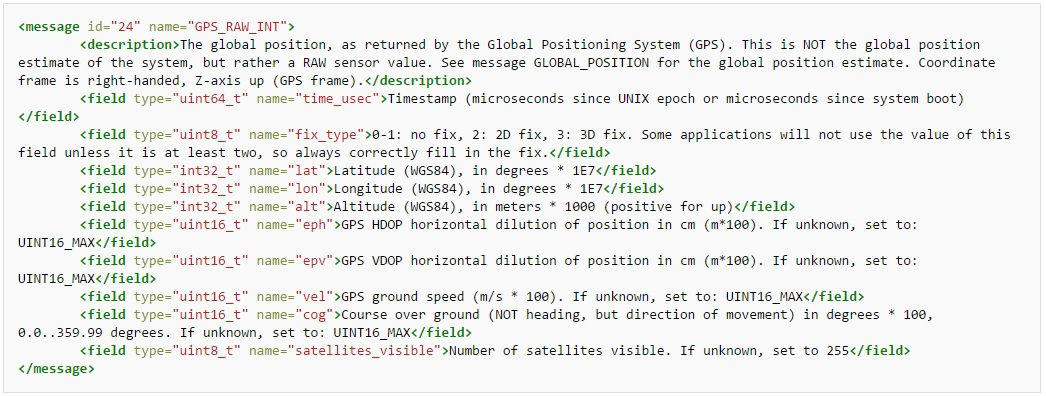
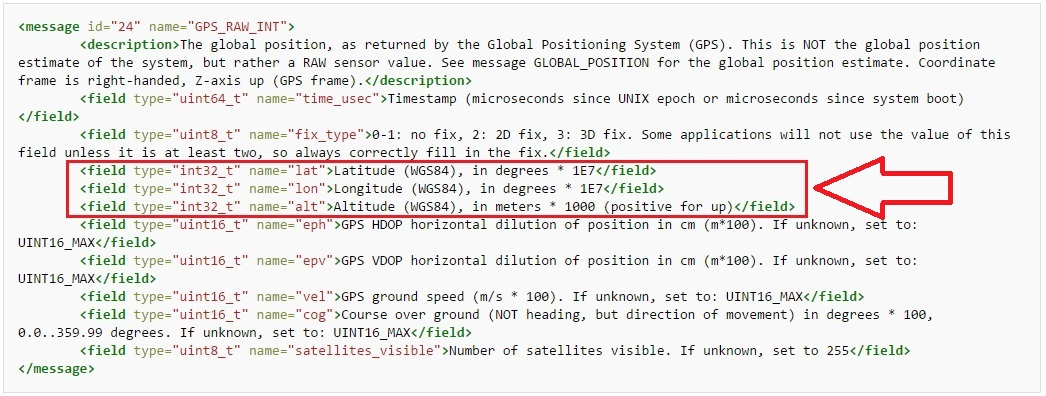
map & mav

Changed region(s): [[0.0612, 0.3939, 0.9178, 0.5758]]

diff --git a/src/matlab/Map/uas_los.m b/src/matlab/Map/uas_los.m
@@ -1,0 +1,212 @@
+function varargout = uas_los(Z, R, gs_lat, gs_lon, ua_lat, ua_lon, ...
+    gs_alt, ua_alt, gs_altopt, ua_altopt, actualradius, apparentradius)
+%
+%   In order to work, this function needs to be in the Mapping Toolbox:
+%   ..\matlab\toolbox\map\map
+%
+%   # LOS visibility between GS and UA in terrain with elevation #
+%               GS  - Ground Station
+%               UA  - Unmanned Aicraft
+%               LOS - Line of Sight  
+%
+%   - Computes the mutual visibility between two points on a displayed
+%   digital elevation map   
+%   - The two points are selected by clicking on the map 
+%   - The result is displayed in a new figure  
+%   - Markers indicate visible and obscured points along the profile
+%   - The profile is shown in a Cartesian coordinate system with the origin
+%   at the GS location
+%   - The displayed z coordinate accounts for the elevation of the terrain 
+%   and the curvature of the body (Earth).
+%
+%   VIS = UAS_LOS(Z, R, GS_LAT, GS_LON, UA_LAT, UA_LON, GS_ALT, UA_ALT, ...
+%       GS_ALT_OPT, UA_ALT_OPT, ACTUALRADIUS, EFFECTIVERADIUS) 
+%
+%   Z - Data grid containing elevations in units of meters
+%
+%   R - Geographic raster reference object, its RasterSize property
+%   must be consistent with size(Z)
+%
+%   If R is a referencing matrix, it must be 3-by-2 and transform raster
+%   row and column indices to/from geographic coordinates according to:
+% 
+%                     [lon lat] = [row col 1] * R.
+%
+%   If R is a referencing matrix, it must define a (non-rotational,
+%   non-skewed) relationship in which each column of the data grid falls
+%   along a meridian and each row falls along a parallel.
+%
+%   GS_LAT - Latitude at which the GS is located (fixed)
+%   GS_LON - Longitude at which the GS is located (fixed)
+%   UA_LAT - Latitude at which the UA is located at that moment
+%   UA_LON - Longitude at which the UA is located at that moment
+%   GS_ALT - Altitude at which the GS is placed
+%   UA_ALT - Altitude at which the UA is flying above the surface
+%   GS_ALT_OPT - Altitude option for GS (def 'AGL')
+%   UA_ALT_OPT - Altitude option for UA (def 'AGL')
+%   ACTUALRADIUS - Earth Radius in meters
+%   EFFECTIVERADIUS - 4/3*ACTUALRADIUS
+%
+%   ALT_OPT is either:
+%   - a relative altitude (ALT_OPT equals 'AGL', the default) interpreted 
+%   as the altitude (in meters) above terrain ("Above Ground Level")
+%   - an absolute altitude (ALT_OPT equals 'MSL') is interpreted as 
+%   altitude above zero ("Mean Sea Level")
+%
+%   ACTUALRADIUS & EFFECTIVERADIUS
+%   Assumes a larger radius for propagation of the LOS. This can account 
+%   for the curvature of the signal path due to refraction in the atmosphere.  
+%   For example, radio propagation in the atmosphere is commonly treated as
+%   straight line propagation on a sphere with 4/3rds the radius of the 
+%   earth. In that case the last two arguments would be:
+%   >>>R_e (the radius of the earth) and 4/3*R_e
+%   
+%   For flat earth visibility calculations use Inf as the effective radius
+%   The altitudes, elevations and the radii should be in the same units!!! 
+%
+%   See also LOS2, VIEWSHED
+
+% CA832 AAU Reworked
+% Copyright 1996-2014 The MathWorks, Inc.
+% Original version (los2) written by Walter Stumpf
+
+if nargin < 2 || (isempty(Z) && isempty(R))
+   [Z, R] = getrmm;
+end
+
+if nargin < 4 || (isempty(gs_lat) && isempty(gs_lon))
+   disp('Click on the map for point 1')
+   [gs_lat,gs_lon] = inputm(1);
+end
+
+if nargin < 6 || (isempty(ua_lat) && isempty(ua_lon))
+   disp('Click on the map for point 2')
+   [ua_lat,ua_lon] = inputm(1);
+end
+
+if nargin < 7; gs_alt = 100*eps; end   % observer on the surface
+if nargin < 8; ua_alt = 0; end         % look at terrain, not above it
+if nargin < 9; gs_altopt = 'AGL'; end  % observer altitude above terrain
+if nargin < 10; ua_altopt = 'AGL'; end % target above ground level
+if nargin < 11; actualradius = earthRadius; end
+if nargin < 12; apparentradius = 4/3*actualradius; end 
+
+checklatlon(gs_lat, gs_lon, mfilename, 'GS_LAT', 'GS_LON', 3, 4)
+checklatlon(ua_lat, ua_lon, mfilename, 'UA_LAT', 'UA_LON', 5, 6)
+
+if isscalar(gs_alt)
+    gs_alt = repmat(gs_alt,size(gs_lat));
+end
+
+if isscalar(ua_alt)
+    ua_alt = repmat(ua_alt,size(gs_lat));
+end
+
+% If R is already spatial referencing object, validate it. Otherwise
+% convert the input referencing vector or matrix. And construct a
+% non-extrapolating default-grid griddedInterpolant for Z.
+R = internal.map.convertToGeoRasterRef( ...
+    R, size(Z), 'degrees', mfilename, 'R', 2);
+F = griddedInterpolant(Z);
+F.ExtrapolationMethod = 'none';
+
+gs_altopt = validatestring(gs_altopt, {'AGL','MSL'}, 'LOS2', 'ALT1OPT', 9);
+observerAltitudeIsAGL = strcmp(gs_altopt,'AGL');
+
+ua_altopt = validatestring(ua_altopt, {'AGL','MSL'}, 'LOS2', 'ALT2OPT', 10);
+targetAltitudeIsAGL = strcmp(ua_altopt, 'AGL');
+
+% loop over pairs of observer and target locations
+makeplot = (nargout == 0);
+if numel(gs_lat) == 1
+    % Single pair of points:
+    %    Output 1 is a logical scalar
+    %    Output 2 is a logical array
+    %    Outputs 3-6 are numerical arrays
+    
+    [visprofile, dist, h, lattrk, lontrk, x1, z1, x2, z2] = calculateLOS(F, R, ...
+        gs_lat, gs_lon, ua_lat, ua_lon, gs_alt, ua_alt, observerAltitudeIsAGL, ...
+        targetAltitudeIsAGL, actualradius, apparentradius);
+    
+    vis = visprofile(end);
+    
+    % Display calculation if no output arguments in main function
+    if makeplot
+        plotProfile(x1, z1, x2, z2, visprofile)
+    end
+else
+    % Multiple pairs of points:
+    %   Output 1 is a logical array
+    %   Outputs 2-6 are cell arrays that contain
+    %      logical or numerical arrays
+    vis = false(1, numel(gs_lat));
+    visprofile = cell(1, numel(gs_lat));
+    h      = cell(1, numel(gs_lat));
+    dist   = cell(1, numel(gs_lat));
+    lattrk = cell(1, numel(gs_lat));
+    lontrk = cell(1, numel(gs_lat));
+    
+    for i = 1:length(gs_lat)
+        [visprofile{i}, dist{i}, h{i}, lattrk{i}, lontrk{i}, x1, z1, x2, z2] ...
+            = calculateLOS(F, R, gs_lat(i), gs_lon(i), ua_lat(i), ua_lon(i), ...
+                gs_alt(i), ua_alt(i), observerAltitudeIsAGL, ...
+                targetAltitudeIsAGL, actualradius, apparentradius);
+        
+        vis(i) = visprofile{i}(end);
+        
+        % Display calculation if no output arguments in main function
+        if makeplot
+            plotProfile(x1, z1, x2, z2, visprofile{i})
+        end
+    end
+end
+
+% Return only the arguments that are requested, if any.
+outputArguments = {vis,visprofile,dist,h,lattrk,lontrk};
+varargout = outputArguments(1:nargout);   
+
+%-----------------------------------------------------------------------
+
+function plotProfile(x, z, x2, z2, vis)
+% Plot the terrain profile plus observer position, visible and obscured
+% points, and line of sight to last point in profile, in a new figure with
+% the tag 'los2'.
+
+vis = reshape(vis, size(x));
+
+figure('Tag','los2','NextPlot','add')
+ax = axes('NextPlot','add');
+ax.XTick = 0:10:x(end)
+ax.XMinorTick = 'on'
+ax.YDir = 'reverse'
+ax.YMinorTick = 'on'
+h(1) = plot(ax,x/1000,-z,'k');
+
+% Line from beginning to end
+% if vis(end)
+%     h(5) = plot(ax,[0;x2(end)],[0;z2(end)],'g');
+% else
+%     h(5) = plot(ax,[0;x2(end)],[0;z2(end)],'r');
+% end
+
+if any(vis)
+    h(2) = plot(ax,x2(vis)/1000,-z2(vis),'b+');
+    h(2).LineWidth = 2;
+end
+
+if any(~vis)
+    h(3) = plot(ax,x2(~vis)/1000,-z2(~vis),'ro');
+    h(3).LineWidth = 2;
+end
+
+h(4) = plot(ax,0,0,'x','color',[1 .5 .2]);
+h(4).LineWidth = 2.5;
+% axis(ax,'equal')
+
+labels = {'Terrain','Visible UA','Unseen UA','Ground Station','Line of Sight'};
+indx = ishghandle(h,'line');
+leg = legend(ax, h(indx), labels(indx));
+set(leg,'FontSize',16);
+xlabel(ax,'DISTANCE FROM GS [kilometers]')
+ylabel(ax,'DOWN AXIS FROM GS [meters]')
+grid minor;

diff --git a/doc/report/sections/sim/los_map.tex b/doc/report/sections/sim/los_map.tex
@@ -1,5 +1,5 @@
 \section{LOS Coverage Map}\label{sec:los_map}
-A point of interest regarding the project at hand is that Line-of-Sight between the GS and the UA should be fulfilled. As discussed in Chapter \ref{ch:frames} this model should take into account the followings:
+A point of interest regarding the project at hand is that Line-of-Sight between the Ground Station and the Unmanned Aircraft should be fulfilled. As discussed in Chapter \ref{ch:frames} this model should take into account the followings:
 
 \begin{itemize}
 	\item Terrain elevation
@@ -8,42 +8,57 @@ A point of interest regarding the project at hand is that Line-of-Sight between 
 \end{itemize}
 
 \subsection{Initial Step}
-In this sense, a MATLAB script has been addressed which at first imports a Web Map Service (WMS) in order to load various maps with their topographic data. As an example a map which captures the area of Central Europe has been taken along with its terrain elevation levels as seen in Figure \ref{fig:before_map}.
+In this sense, a MATLAB script has been addressed which at first imports a Web Map Service (WMS) in order to load various maps with their topographic data. As example, a map which captures the areas of Denmark and Sweden has been taken along with its terrain elevation as it can be seen in Figure \ref{fig:before_map}.
 
 \begin{figure}[H]
   \hfill
   \subfigure[Map Before Interaction]{
-  \includegraphics[scale=0.32]{figures/europe_map.png}
+  \includegraphics[scale=0.3]{figures/dk_map.png}
   \label{fig:before_map}}
   \hfill
   \subfigure[GS and UA Placement]{
-  \includegraphics[scale=0.32]{figures/gs_ua_map.png}
+  \includegraphics[scale=0.3]{figures/gs_ua_map.png}
   \label{fig:gs_uav_map}}
   \hfill
-  \caption{Topographic Map of Central Europe}\label{fig:eu_map}
+  \caption{Topographic Map of Northen Europe}\label{fig:eu_map}
 \end{figure}
 
 \subsection{LOS Distance}
-Given the map and its topographic data in Figure \ref{fig:before_map}, now it is possible to input the desired points for the GS (red) and the UA (blue) which gives as result in Figure \ref{fig:gs_uav_map}. The example takes into account the altitude of the GS (20m) and UA (100m) along with the terrain elevation. Thus, it can be observed in Figure \ref{fig:los_2p} that visibility is lost after 65 kilometers from the GS due to terrain elevation. On the other hand, in some parts of the distance it can be seen that the field of vision is regained, as a result of high terrain elevation around the 73th and 78th kilometer. Moreover, it can be seen that the curvature of the Earth comes into play as the further away the UA is from the GS.
+Given the map and its topographic data in Figure \ref{fig:before_map}, now it is possible to input the desired points for the GS (orange) and the UA (blue) which gives as result in Figure \ref{fig:gs_uav_map}. The example takes into account the altitude of the GS (20m) and UA (100m) along with the terrain elevation. 
+
+Figure \ref{fig:los_2p} shows the Local NED of the GS (orange cross) perspective which is fixed in zero. Furthermore, the blue crosses and red circles indicate if the UA is visible or not at a particular distance from the GS. Thus, it can be observed that visibility is lost after 50 kilometers from the ground station due to terrain elevation. However, the field of vision is regained between the 55th and 65th kilometer, but the curvature of the Earth comes into play and visibility is lost once again.
 
 \begin{figure}[H]
 	\centering
-	\includegraphics[scale=0.40]{figures/los_2p.png}
-	\caption{LOS distance seen from the Local NED of GS \\ X axis - Distance [km] \\ Y axis - Altitude [m]}
+	\includegraphics[scale=0.40]{figures/los_2points.png}
+	\caption{Line-of-Sight distance seen from the Local NED of the Ground Station}
    	\label{fig:los_2p}
 \end{figure}
 
-\subsection{Coverage Map}
-Moving further, for the same map (Figure \ref{fig:before_map}), a location of the GS can be chosen, such that it will result into a visibility area (inside the white zone) as seen in Figure \ref{fig:los_area}. This area is also referred as the LOS coverage map and it takes into account the previously mentioned parameters.
+\subsection{LOS Coverage Map}
+Moving further, for the same map (Figure \ref{fig:before_map}), a location of the GS can be chosen, such that it will result into a visibility area (inside the orange zone) as seen in Figure \ref{fig:los_area}. This area is also referred as the \emph{LOS Coverage Map} and it takes into account the previously mentioned parameters.
+
+\begin{figure}[H]
+  \hfill
+  \subfigure[LOS Coverage Map of UAS]{
+  \includegraphics[scale=0.31]{figures/los_area.png}
+  \label{fig:los_area}}
+  \hfill
+  \subfigure[Zoom of LOS Area]{
+  \includegraphics[scale=0.33]{figures/zoom_los_map.png}
+  \label{fig:zoom_map}}
+  \hfill
+  \caption{LOS Coverage Map}\label{fig:eu_map}
+\end{figure}
+
+It can be observed from Figure \ref{fig:los_area} that in some areas of the map there is no visibility, due to higher terrain elevation or the curvature of the Earth. Additionally, in Figure \ref{fig:los_odense} it can be seen that choosing a good position for the ground station can impact the coverage area, such that the working area of the UAS expands.  
 
 \begin{figure}[H]
 	\centering
-	\includegraphics[scale=0.5]{figures/cov_map1.png}
-	\caption{LOS Coverage Map from the GS}
-   	\label{fig:los_area}
+	\includegraphics[scale=0.70]{figures/los_odense.png}
+	\caption{Example of good GS positioning which impacts coverage area}
+   	\label{fig:los_odense}
 \end{figure}
-
-It can be observed from Figure \ref{fig:los_area} that in some areas of the map there is no visibility, due to higher terrain elevation. This can be overcome by increasing the GS and/or UA altitude, such that we achieve visibility.  
 
 \subsection{Working Principle}
 Taking into account that a MATLAB script has been achieved, a thourough working principle has to be addressed in the following steps:

diff --git a/src/matlab/Map/LOS_coverage_map.m b/src/matlab/Map/LOS_coverage_map.m
@@ -3,8 +3,8 @@ clear all; close all; clc;
 % Input parameters
 H_gs = input('Input ground station altitude: ');   % [m] GS altitude 
 H_ua = input('Input aircraft altitude: ');         % [m] UA altitude
-latlim = [45 55];                                  % Map latitude limits
-lonlim = [3 18];                                   % Map longitude limits
+latlim = [54 58];                                  % Map latitude limits
+lonlim = [8 16];                                   % Map longitude limits
 R_e = earthRadius('meters');                       % Earth radius
 
 %% 1. Import map as a Web Map Service (WMS)
@@ -23,10 +23,12 @@ figure
 worldmap(latlim, lonlim)
 geoshow(ZA, RA, 'DisplayType', 'texturemap')
 demcmap(double(ZA))
-title({'Central Europe - Topographic Map'});
-[lat lon] = inputm(2);                         % Input GS and UA locations
-plotm(lat(1),lon(1),'ro','LineWidth',3);textm(lat(1),lon(1),'GS');
-plotm(lat(2),lon(2),'bo','LineWidth',3);textm(lat(2),lon(2),'UA');
+title({'Denmark - Topographic Map'});
+[lat lon] = inputm(2);                         % INPUT GS & UA LOCATIONS
+plotm(lat(1),lon(1),'o','color',[1 .5 .2],'LineWidth',3);
+textm(lat(1),lon(1),'  GS','FontWeight','bold');
+plotm(lat(2),lon(2),'bo','LineWidth',3);
+textm(lat(2),lon(2),'  UA','FontWeight','bold');
 
 % Personalized LOS function (LOCAL NED GS FRAME):
 uas_los(Z, R, lat(1), lon(1), lat(2), lon(2), H_gs, H_ua, 'AGL', ...
@@ -37,20 +39,20 @@ uas_los(Z, R, lat(1), lon(1), lat(2), lon(2), H_gs, H_ua, 'AGL', ...
 %                                                            R_e, 4/3*R_e)
 
 % Theoretical LOS distance 
-E_gs = ltln2val(Z, R, lat(1), lon(1)) + H_gs; % [m] terrain + GS altitude
-E_ua = ltln2val(Z, R, lat(2), lon(2)) + H_ua; % [m] terrain + UA altitude
-D_los = 3.57*(sqrt(E_gs) + sqrt(E_ua))     % [km] LOS distance
+E_gs = ltln2val(Z, R, lat(1), lon(1)) + H_gs; % [m] TERRAIN + GS ALTITUDE
+E_ua = ltln2val(Z, R, lat(2), lon(2)) + H_ua; % [m] TERRAIN + UA ALTITUDE
+D_los = 3.57*(sqrt(E_gs) + sqrt(E_ua))     % [km] LOS DISTANCE
 
 %% 3. LOS Coverage Map
 figure
 worldmap(latlim, lonlim)
 geoshow(ZA, RA, 'DisplayType', 'texturemap')
 demcmap(double(ZA))   
-title('Central Europe - Topographic Map')
-[latGS lonGS] = inputm(1);                % Input GS location  
+title('Denmark - Topographic Map')
+[latGS lonGS] = inputm(1);                              % INPUT GS LOCATION  
 [vmap, vmapl] = viewshed(Z, R, latGS(1), lonGS(1), H_gs, H_ua, ...
     'AGL', 'AGL', R_e, 4/3*R_e);
-plotm(latGS,lonGS,'ro','LineWidth',3);    % GS point on map
-textm(latGS,lonGS,'GS');
-contourm(vmap,RA,'LineColor','w');        % LOS area from the GS
+plotm(latGS,lonGS,'o','color',[1 .5 .2],'LineWidth',3); % GS POINT ON MAP
+textm(latGS,lonGS,'  GS','FontWeight','bold');
+contourm(vmap,RA,'LineColor',[1 .5 .2]);                % LOS AREA FROM GS
 title('LOS COVERAGE MAP');

diff --git a/doc/report/sections/tele/mavlink.tex b/doc/report/sections/tele/mavlink.tex
@@ -4,7 +4,7 @@ Taking the application at hand, inter-communication between systems is required 
 \subsection{Packet Structure}
 In digital communication the information is sent through packets, in this case the data are the UAS parameters. Thus, for further understanding the packet structure of the MAVLink protocol can be as seen in Table \ref{tab:mavlink}.
 
-\begin{table}[h]
+\begin{table}[H]
 	\centerline{
 	\begin{tabular}{|c||c|c|}
 		\hline
@@ -24,11 +24,8 @@ In digital communication the information is sent through packets, in this case t
 
 The CRC field ensures message integrity of each packet. Another function of the CRC is to establish that both sender and receiver agree on the message transfer.
 
-\subsection{Bandwidth Example}
-As an example of 
-
 \subsection{Messages}
-As stated above the payload from the packets are MAVLink messages. Also, every message can be identified by its ID field on the packet. Additionally, an XML document (in MAVLink source) has the definition of all the data stored on that payload. A sample of such an XML document can be seen in Figure \ref{fig:mav_msg} which describes a message with an ID 24 giving GPS relevant information.
+As stated above the payload from the packets are MAVLink messages. Also, every message can be identified by its ID field on the packet. Additionally, an XML document (in MAVLink source) has the definition of all the data stored on that payload. A sample of such an XML document can be seen in Figure \ref{fig:mav_msg} which describes a message with a 24 number ID giving GPS relevant information. Thus, from this message it can be observed the latitude, longitude and altitude in the WGS84 coordinate system.
 
 \begin{figure}[H]
 	\centering
@@ -40,12 +37,10 @@ As stated above the payload from the packets are MAVLink messages. Also, every m
 To be noted that the XML document describes the logical ordering of the fields for the protocol, not the actual wire format.
 
 \subsection{Advantages}
-To sum up, the MAVLink presents the following advantages:
+To sum up, taking into account the advantages of the MAVLink protocol it can be said that it is a viable option in the case of the UAS at hand:
 \begin{itemize}
 	\item Small packet size
 	\item Message verification
 	\item Low bandwidth allocation
 	\item Useful at low communication scenario
 \end{itemize}
-
-In conclusion, taking the advantages presented above that the MAVLink protocol is a viable option in the case of the UAS at hand.
